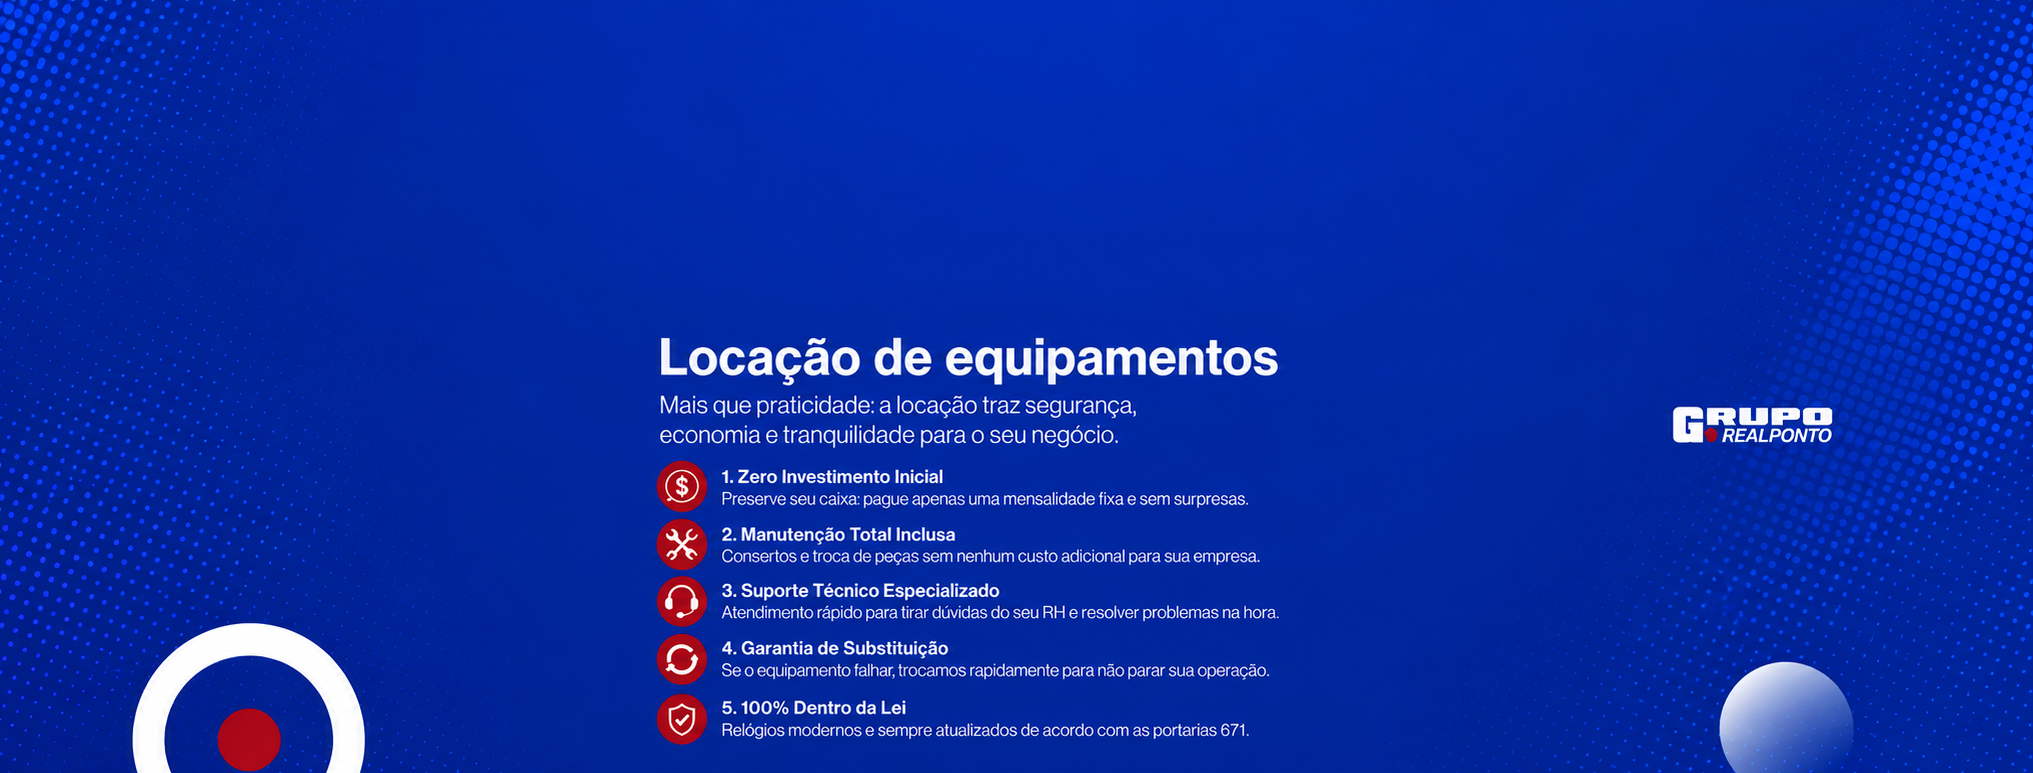
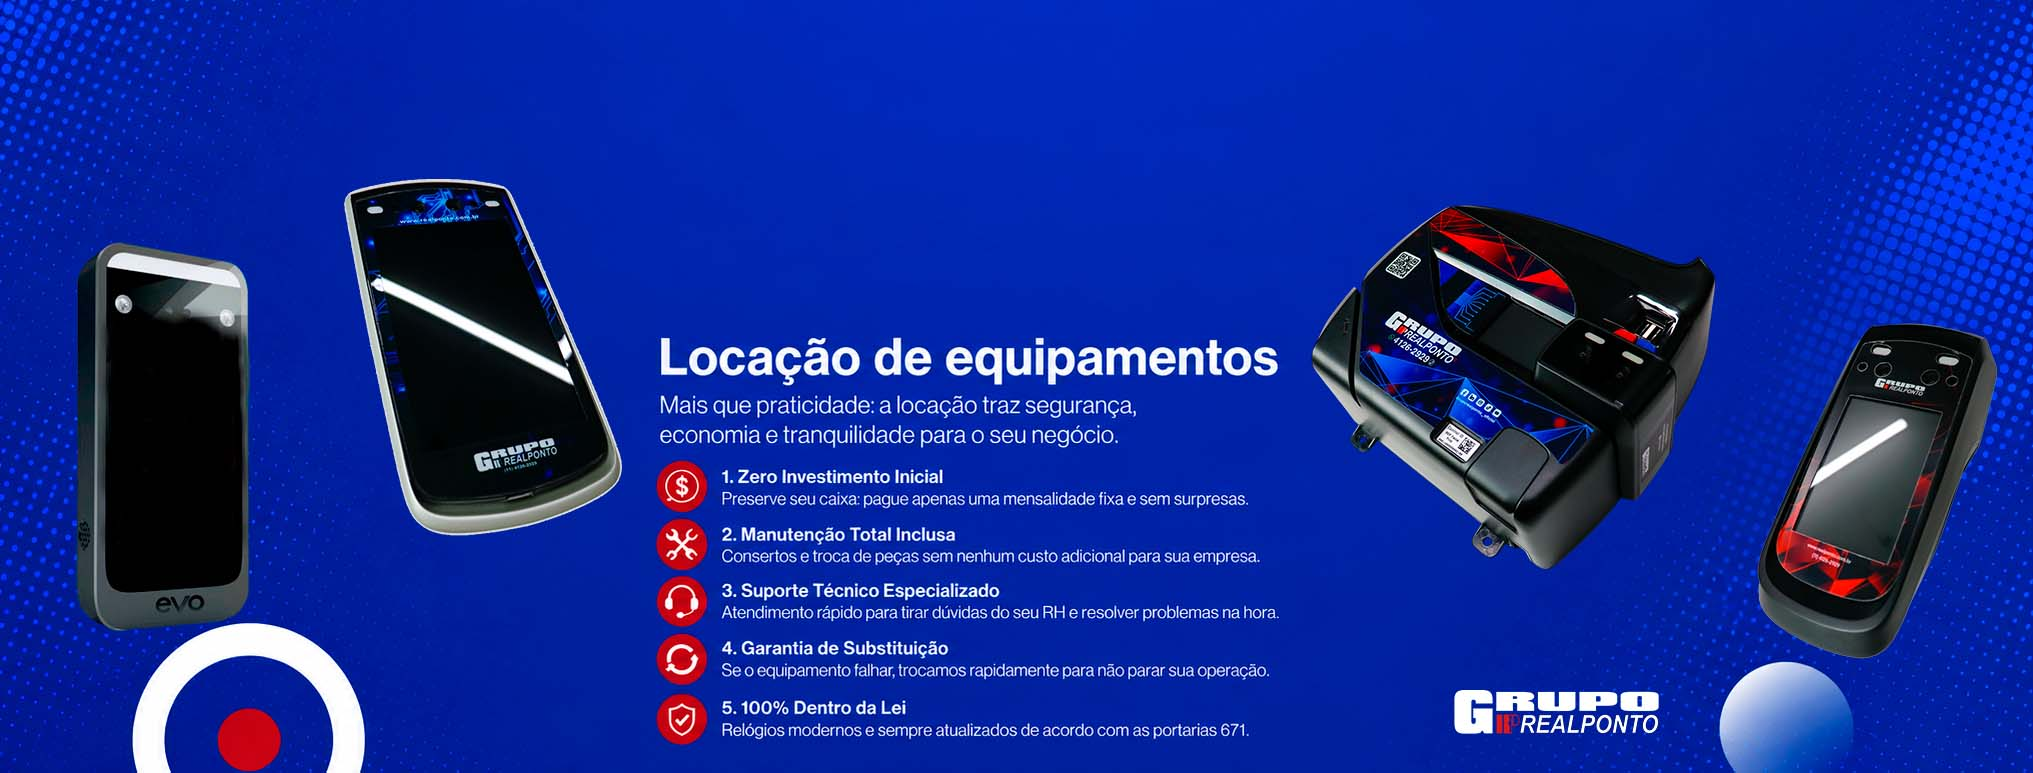
Alteracoes1308-Manha

diff --git a/css/style.css b/css/style.css
@@ -6878,3 +6878,248 @@ summary::after {
   }
 
 }
+/* =====================================================
+   RECURSOS OPCIONAIS - PÁGINA DE LOCAÇÃO
+===================================================== */
+
+.locacao-opcionais {
+  width: 100%;
+
+  margin-top: 55px;
+  padding: 42px;
+
+  border: 1px solid var(--line);
+  border-radius: 28px;
+
+  background:
+    radial-gradient(
+      circle at 92% 10%,
+      rgba(30, 182, 217, 0.10),
+      transparent 32%
+    ),
+    linear-gradient(
+      145deg,
+      #f8fbff,
+      #edf4fa
+    );
+
+  box-shadow:
+    0 18px 45px rgba(7, 28, 53, 0.06);
+}
+
+
+/* TEXTO */
+
+.locacao-opcionais-texto {
+  max-width: 100%;
+}
+
+.locacao-opcionais-texto .eyebrow {
+  margin-bottom: 10px;
+}
+
+.locacao-opcionais-texto h3 {
+  max-width: 850px;
+
+  margin-bottom: 16px;
+
+  color: var(--navy);
+
+  font-size: clamp(1.6rem, 2.6vw, 2.2rem);
+  line-height: 1.15;
+}
+
+.locacao-opcionais-texto .lead {
+  max-width: none;
+
+  margin-bottom: 0;
+
+  color: var(--muted);
+}
+
+
+/* =========================================
+   ITENS
+========================================= */
+
+.locacao-opcionais-itens {
+  display: grid;
+
+  grid-template-columns:
+    repeat(2, minmax(0, 1fr));
+
+  gap: 20px;
+
+  margin-top: 38px;
+}
+
+
+/* CARD INDIVIDUAL */
+
+.locacao-opcional-item {
+  display: grid;
+
+  grid-template-columns: 190px 1fr;
+
+  min-height: 220px;
+
+  overflow: hidden;
+
+  border:
+    1px solid rgba(223, 231, 240, 0.9);
+
+  border-radius: 22px;
+
+  background:
+    rgba(255, 255, 255, 0.78);
+
+  transition:
+    transform 0.3s ease,
+    box-shadow 0.3s ease;
+}
+
+
+.locacao-opcional-item:hover {
+  transform: translateY(-4px);
+
+  box-shadow:
+    0 18px 38px rgba(7, 28, 53, 0.10);
+}
+
+
+/* IMAGEM */
+
+.locacao-opcional-imagem {
+  min-height: 220px;
+
+  display: flex;
+
+  align-items: center;
+  justify-content: center;
+
+  padding: 25px;
+
+  background: #ffffff;
+}
+
+
+.locacao-opcional-imagem img {
+  display: block;
+
+  width: 100%;
+  height: 170px;
+
+  object-fit: contain;
+  object-position: center;
+
+  transition:
+    transform 0.35s ease;
+}
+
+
+.locacao-opcional-item:hover
+.locacao-opcional-imagem img {
+  transform: scale(1.05);
+}
+
+
+/* TEXTO DO ITEM */
+
+.locacao-opcional-info {
+  display: flex;
+
+  flex-direction: column;
+  justify-content: center;
+
+  padding: 28px;
+}
+
+
+.locacao-opcional-info > span {
+  display: block;
+
+  margin-bottom: 7px;
+
+  color: var(--blue);
+
+  font-size: 0.74rem;
+  font-weight: 600;
+
+  letter-spacing: 0.08em;
+  text-transform: uppercase;
+}
+
+
+.locacao-opcional-info h4 {
+  margin: 0 0 10px;
+
+  color: var(--navy);
+
+  font-size: 1.35rem;
+}
+
+
+.locacao-opcional-info p {
+  margin: 0;
+
+  color: var(--muted);
+
+  font-size: 0.96rem;
+  line-height: 1.55;
+}
+
+
+/* =====================================================
+   TABLET
+===================================================== */
+
+@media (max-width: 1020px) {
+
+  .locacao-opcionais {
+    padding: 35px;
+  }
+
+  .locacao-opcionais-itens {
+    grid-template-columns: 1fr;
+  }
+
+}
+
+
+/* =====================================================
+   CELULAR
+===================================================== */
+
+@media (max-width: 680px) {
+
+  .locacao-opcionais {
+    margin-top: 35px;
+
+    padding: 26px 20px;
+
+    border-radius: 22px;
+  }
+
+
+  .locacao-opcional-item {
+    grid-template-columns: 1fr;
+  }
+
+
+  .locacao-opcional-imagem {
+    min-height: 210px;
+
+    padding: 22px;
+  }
+
+
+  .locacao-opcional-imagem img {
+    height: 180px;
+  }
+
+
+  .locacao-opcional-info {
+    padding: 24px;
+  }
+
+}

diff --git a/locacao-de-equipamentos.html b/locacao-de-equipamentos.html
@@ -398,7 +398,6 @@
 
       <div class="container locacao-apresentacao-grid">
 
-
         <div class="locacao-apresentacao-copy">
 
           <span class="eyebrow">
@@ -462,7 +461,7 @@
           <div class="locacao-equipamento">
 
             <img
-              src="img/idfaceMax.png"
+              src="img/idface.png"
               alt="Equipamento facial para controle de acesso"
             >
 
@@ -477,7 +476,7 @@
           <div class="locacao-equipamento">
 
             <img
-              src="img/catraca.webp"
+              src="img/seguranca-eletronica/controle-de-acesso/01.png"
               alt="Catraca para controle de acesso"
             >
 
@@ -490,7 +489,90 @@
 
         </div>
 
+        
 
+
+      </div>
+      <div class="container">
+      <div class="locacao-opcionais">
+
+  <div class="locacao-opcionais-texto">
+
+    <span class="eyebrow">
+      Recursos opcionais
+    </span>
+
+    <h3>
+      Personalize a locação de acordo com a necessidade da sua operação
+    </h3>
+
+    <p class="lead">
+      Cada operação possui necessidades diferentes. Por isso, a solução de locação
+      também pode receber <strong>recursos opcionais</strong>, permitindo personalizar
+      o equipamento de acordo com a estrutura da empresa. É possível adicionar
+      <strong>módulo de comunicação</strong> para ampliar as possibilidades de
+      conectividade e <strong>fonte com bateria</strong> para manter o equipamento
+      funcionando mesmo em situações de falta de energia.
+    </p>
+
+  </div>
+
+
+  <div class="locacao-opcionais-itens">
+
+    <div class="locacao-opcional-item">
+
+      <div class="locacao-opcional-imagem">
+        <img
+          src="img/modulo.png"
+          alt="Módulo de comunicação RealPonto"
+        >
+      </div>
+
+      <div class="locacao-opcional-info">
+        <span>Conectividade</span>
+
+        <h4>
+          Módulo de comunicação
+        </h4>
+
+        <p>
+          Solução complementar para comunicação dos equipamentos,
+          inclusive em locais onde a estrutura de rede disponível
+          não atende às necessidades da operação.
+        </p>
+      </div>
+
+    </div>
+
+
+    <div class="locacao-opcional-item">
+
+      <div class="locacao-opcional-imagem">
+        <img
+          src="img/fonte-bateria.png"
+          alt="Fonte com bateria para relógio de ponto"
+        >
+      </div>
+
+      <div class="locacao-opcional-info">
+        <span>Autonomia</span>
+
+        <h4>
+          Fonte com bateria
+        </h4>
+
+        <p>
+          Mantém o equipamento funcionando temporariamente mesmo
+          durante interrupções no fornecimento de energia elétrica.
+        </p>
+      </div>
+
+    </div>
+
+  </div>
+
+      </div>
       </div>
 
     </section>
@@ -625,7 +707,7 @@
             </h3>
 
             <p>
-              A solução pode ser dimensionada considerando usuários,
+              A solução é dimensionada considerando usuários,
               locais, formas de identificação e necessidades da empresa.
             </p>
 
